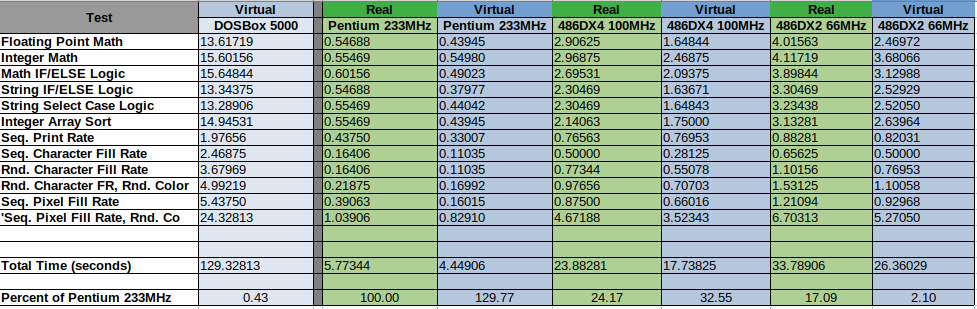
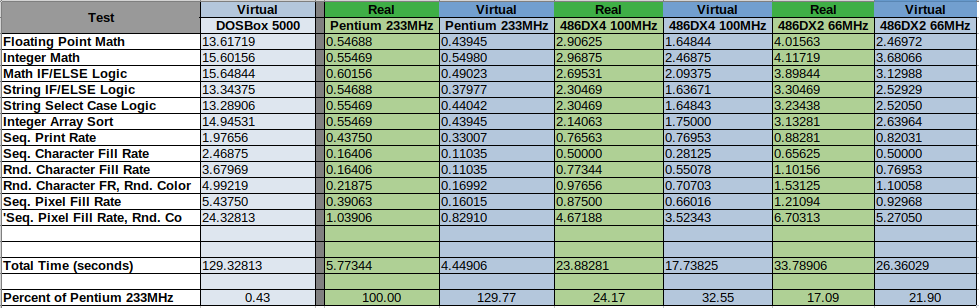
Fix typo in calculation

diff --git a/BENCHES/README.md b/BENCHES/README.md
@@ -117,7 +117,7 @@ The total time to complete all tasks (calculated by adding the individual result
 
 See the benches_results.ods spreadsheet. Here is a screenshot comparing real vs. virtual CPUs.  
 
-<img src="../IMG/benches_real-vs-virtual-cpu.png" width="977" height="309" title="Real Vs. Virtual CPU"/>  
+<img src="../IMG/benches_real-vs-virtual-cpu.png" width="979" height="308" title="Real Vs. Virtual CPU"/>  
 
 Thanks to steve_v from the [Devuan Linux Forum](http://dev1galaxy.org/) for the 486DX2/66 and 486DX4/100 results!  
 
